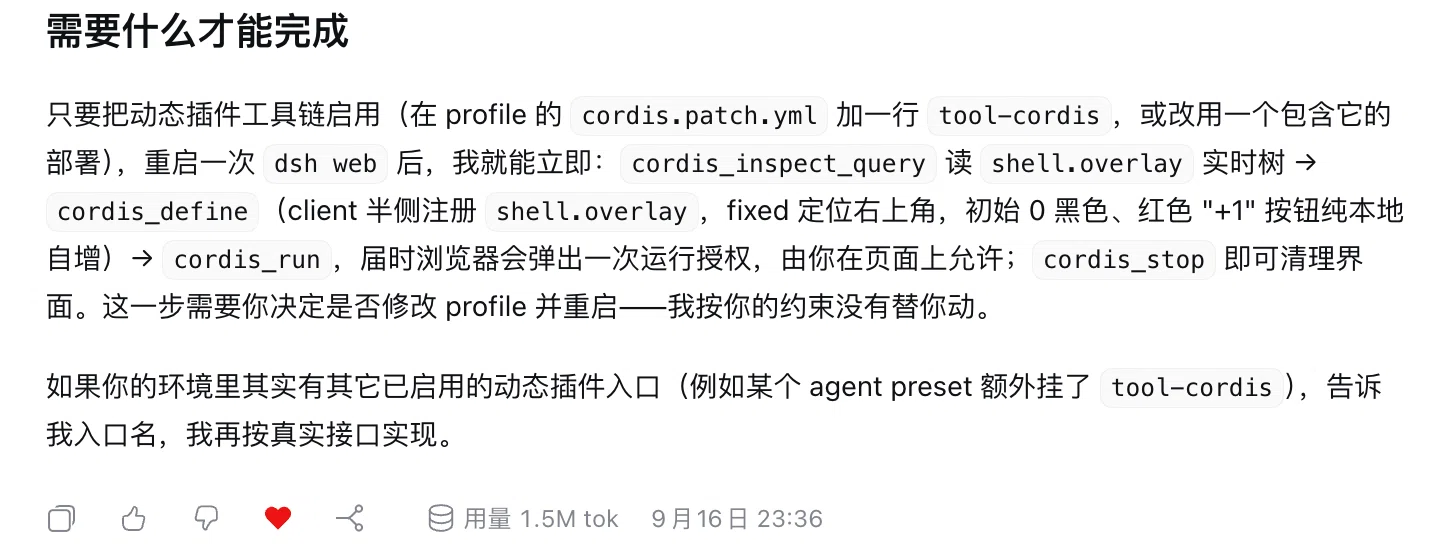
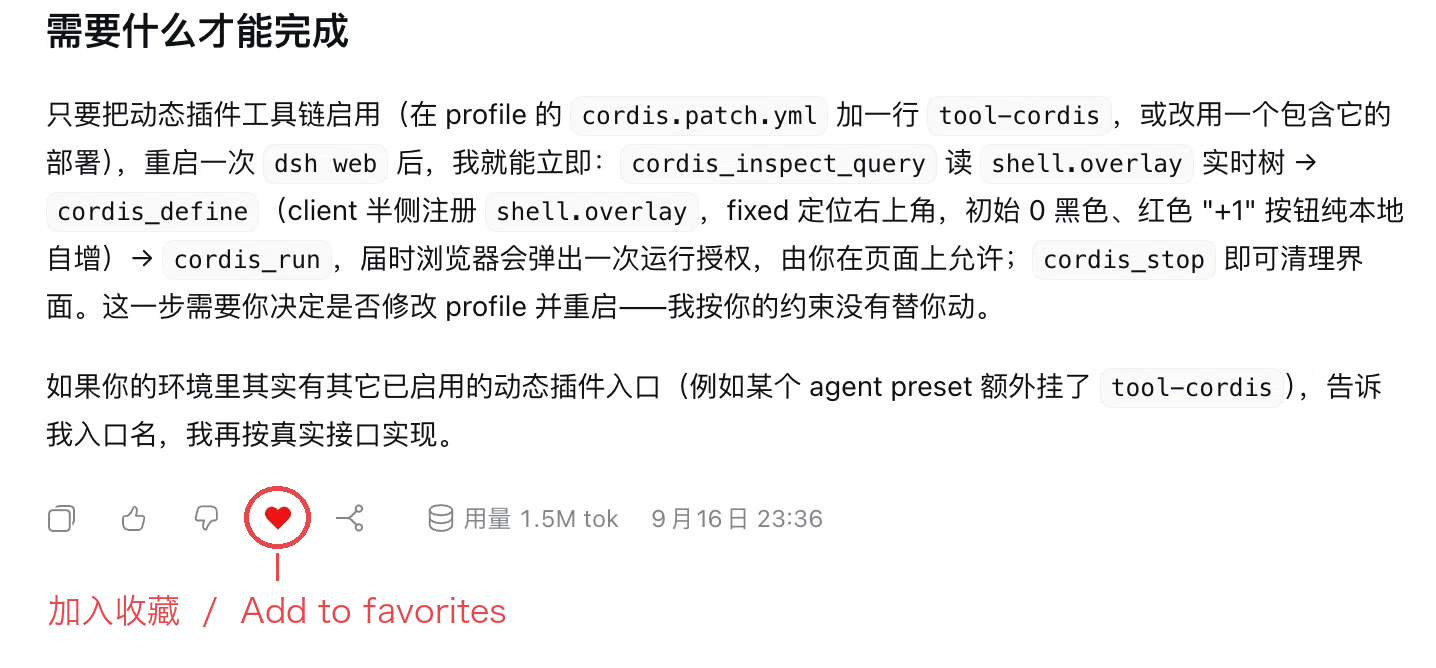
docs: annotate the heart screenshot and caption both shots

diff --git a/README.md b/README.md
@@ -12,7 +12,11 @@
 
 ## Screenshots
 
+*Every reply carries the action row. The heart is the save button — one click keeps the whole turn (your question plus the complete answer).*
+
 ![Save a turn from the action row](https://raw.githubusercontent.com/xypang33-sketch/dsh-save-chat/main/docs/screenshot-heart.png)
+
+*The collection panel: workspaces, sessions, and saved turns on the left; the selected turn rendered beside it. The toolbar switches between this section and the whole file, reveals the file in your file manager, and closes the reader.*
 
 ![Browse collections and the knowledge base](https://raw.githubusercontent.com/xypang33-sketch/dsh-save-chat/main/docs/screenshot-panel.png)
 

diff --git a/README.zh.md b/README.zh.md
@@ -12,7 +12,11 @@
 
 ## 截图
 
+*每条回复下面都有动作行，红心就是收藏按钮——点一下，整轮问答（问题 + 完整回答）就被保存下来。*
+
 ![在动作行收藏一轮对话](https://raw.githubusercontent.com/xypang33-sketch/dsh-save-chat/main/docs/screenshot-heart.png)
+
+*收藏面板：左侧是工作区 / 会话 / 条目树，右侧并排渲染选中的那一节；工具条可在「只看该节 / 展开全文」之间切换、在文件夹中显示、关闭阅读区。*
 
 ![浏览收藏与知识库](https://raw.githubusercontent.com/xypang33-sketch/dsh-save-chat/main/docs/screenshot-panel.png)
 
